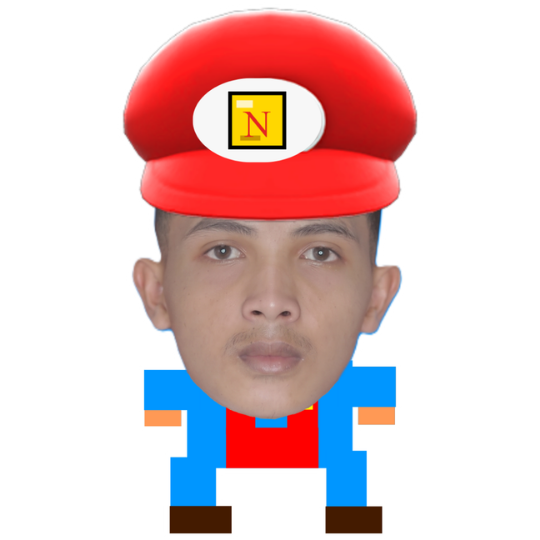
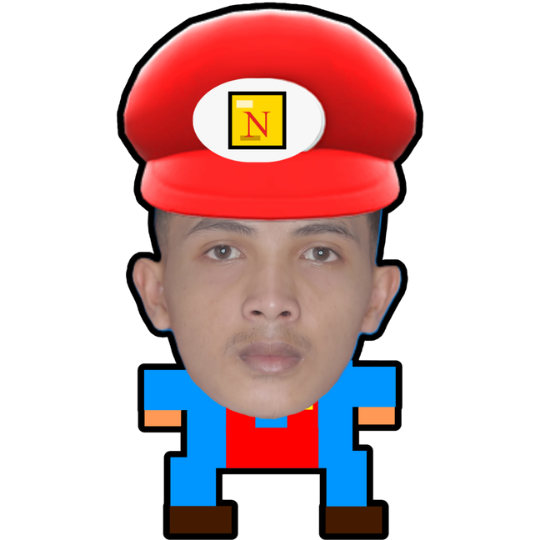
Pipa lebih besar, Mario tepat tengah dengan buffer, puncak lompatan lebih tinggi

Changed region(s): [[0.2074, 0.1185, 0.8, 1.0], [0.2074, 0.0, 0.7111, 0.2667], [0.7111, 0.0889, 0.7407, 0.1185]]

diff --git a/src/components/Retro.tsx b/src/components/Retro.tsx
@@ -157,10 +157,6 @@ export const RetroBackground = () => (
                 <PixelMushroom />
             </div>
 
-            <div className="absolute right-[6%] bottom-8 w-20 hidden md:block">
-                <PixelPipe />
-            </div>
-
             <div className="absolute bottom-16 left-[8%] w-32">
                 <PixelBush />
             </div>
@@ -181,7 +177,7 @@ export const RetroBackground = () => (
             </div>
         </div>
         <MarioRun />
-        <div aria-hidden="true" className="fixed right-[6%] bottom-8 w-20 hidden md:block pointer-events-none">
+        <div aria-hidden="true" className="fixed right-[6%] bottom-8 w-24 hidden md:block pointer-events-none">
             <PixelPipe />
         </div>
         <div aria-hidden="true" className="fixed bottom-0 inset-x-0 z-0 h-8 pointer-events-none">

diff --git a/src/app/globals.css b/src/app/globals.css
@@ -98,19 +98,19 @@
     animation-timing-function: linear;
   }
   55% {
-    transform: translate(calc(94vw - 80px), 0);
+    transform: translate(calc(94vw - 88px), 0);
     animation-timing-function: ease-out;
   }
   60% {
-    transform: translate(calc(94vw - 80px), -175px);
+    transform: translate(calc(94vw - 88px), -190px);
     animation-timing-function: ease-in;
   }
   63% {
-    transform: translate(calc(94vw - 80px), -133px);
+    transform: translate(calc(94vw - 88px), -160px);
     animation-timing-function: ease-in-out;
   }
   72% {
-    transform: translate(calc(94vw - 80px), 0);
+    transform: translate(calc(94vw - 88px), 0);
     animation-timing-function: linear;
   }
   75% {
